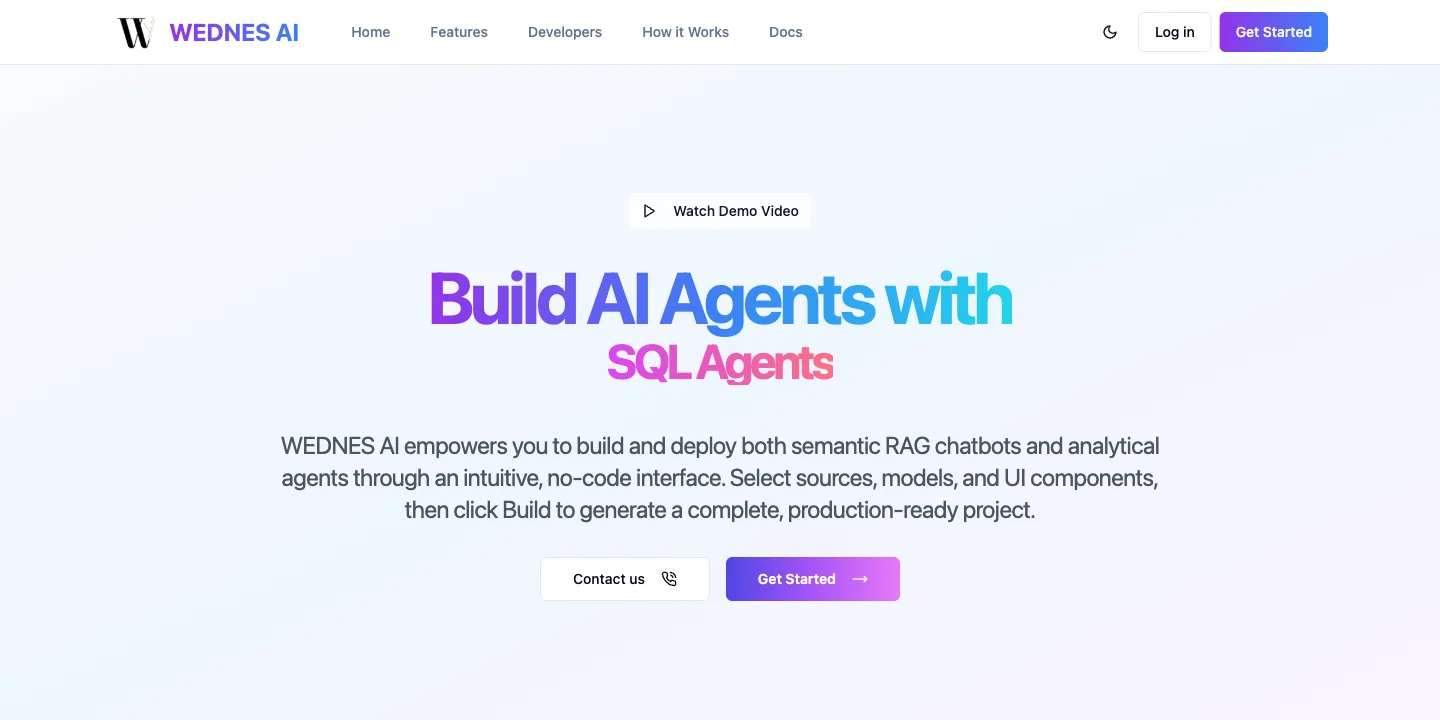
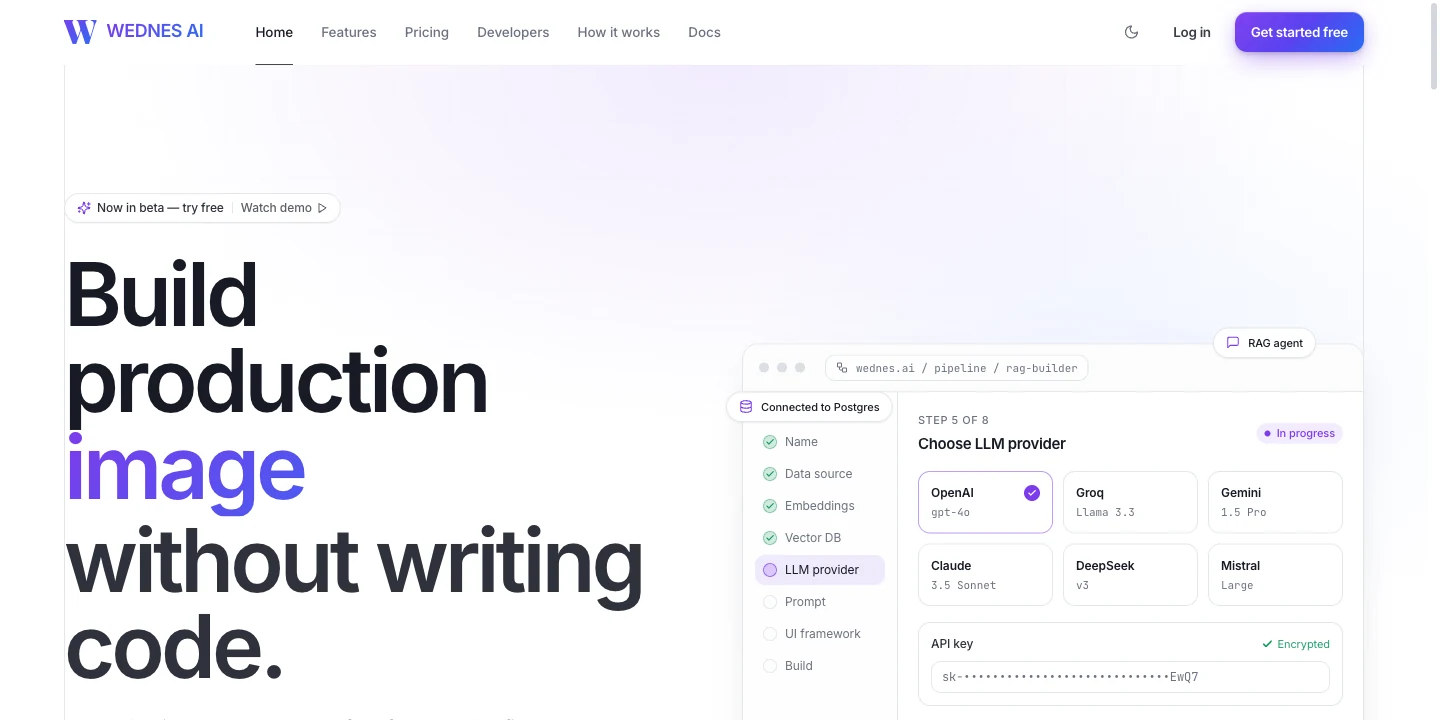
Update WEDNES AI screenshot to the redesigned live site

diff --git a/src/components/Projects.tsx b/src/components/Projects.tsx
@@ -150,7 +150,7 @@ const Projects = () => {
                 </div>
                 <img
                   src={wednesShot}
-                  alt="WEDNES AI home page: Build AI Agents with SQL Agents"
+                  alt="WEDNES AI home page: Build production agents without writing code"
                   width={1440}
                   height={720}
                   loading="lazy"
